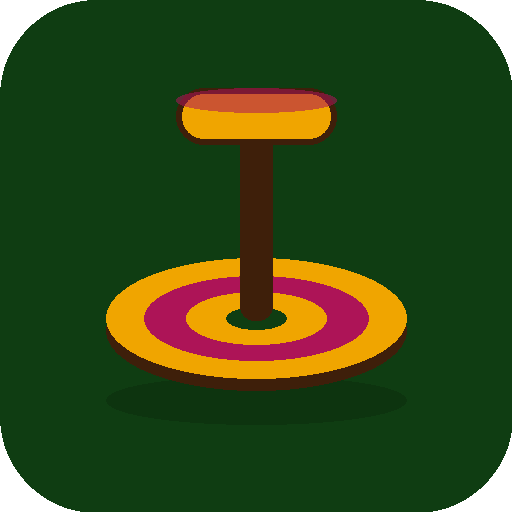
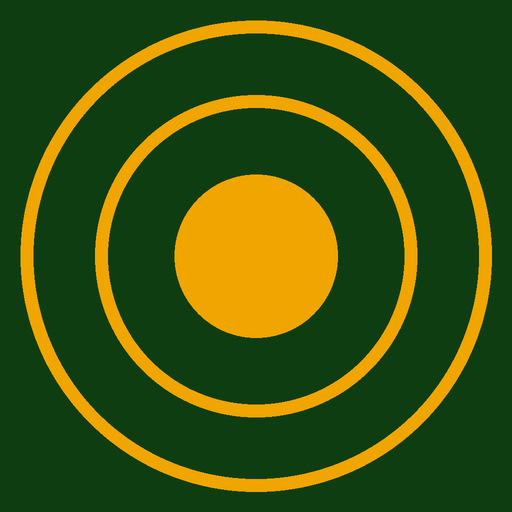
Updates

diff --git a/sw.js b/sw.js
@@ -1,1 +1,1 @@
-if(!self.define){let e,i={};const n=(n,s)=>(n=new URL(n+".js",s).href,i[n]||new Promise(i=>{if("document"in self){const e=document.createElement("script");e.src=n,e.onload=i,document.head.appendChild(e)}else e=n,importScripts(n),i()}).then(()=>{let e=i[n];if(!e)throw new Error(`Module ${n} didn’t register its module`);return e}));self.define=(s,r)=>{const o=e||("document"in self?document.currentScript.src:"")||location.href;if(i[o])return;let c={};const f=e=>n(e,o),a={module:{uri:o},exports:c,require:f};i[o]=Promise.all(s.map(e=>a[e]||f(e))).then(e=>(r(...e),c))}}define(["./workbox-9c191d2f"],function(e){"use strict";self.skipWaiting(),e.clientsClaim(),e.precacheAndRoute([{url:"registerSW.js",revision:"3657615490fc0a4a7073586387c618ee"},{url:"index.html",revision:"97db6b7f15e390e5527ab2408165587e"},{url:"icons.svg",revision:"3b4fcfcf393eca4d264dca4a4663bc37"},{url:"icon-512.png",revision:"76f4a3d1b8ebb256f45e6c67a028eea4"},{url:"icon-192.png",revision:"f1d6a904c0565c9f0f9f51aa3b897445"},{url:"favicon.svg",revision:"7e840862161341271697daa99a40d76b"},{url:"assets/index-DnA7C1Ln.css",revision:null},{url:"assets/index-DaS4q74H.js",revision:null},{url:"favicon.svg",revision:"7e840862161341271697daa99a40d76b"},{url:"icon-192.png",revision:"f1d6a904c0565c9f0f9f51aa3b897445"},{url:"icon-512.png",revision:"76f4a3d1b8ebb256f45e6c67a028eea4"},{url:"manifest.webmanifest",revision:"110579c8e8c239f6bcf6576d3eaf1492"}],{}),e.cleanupOutdatedCaches(),e.registerRoute(new e.NavigationRoute(e.createHandlerBoundToURL("index.html")))});
+if(!self.define){let e,i={};const n=(n,s)=>(n=new URL(n+".js",s).href,i[n]||new Promise(i=>{if("document"in self){const e=document.createElement("script");e.src=n,e.onload=i,document.head.appendChild(e)}else e=n,importScripts(n),i()}).then(()=>{let e=i[n];if(!e)throw new Error(`Module ${n} didn’t register its module`);return e}));self.define=(s,r)=>{const c=e||("document"in self?document.currentScript.src:"")||location.href;if(i[c])return;let o={};const a=e=>n(e,c),f={module:{uri:c},exports:o,require:a};i[c]=Promise.all(s.map(e=>f[e]||a(e))).then(e=>(r(...e),o))}}define(["./workbox-9c191d2f"],function(e){"use strict";self.skipWaiting(),e.clientsClaim(),e.precacheAndRoute([{url:"registerSW.js",revision:"3657615490fc0a4a7073586387c618ee"},{url:"index.html",revision:"bc5aebcb61fab46f311ec407541a50cf"},{url:"icons.svg",revision:"3b4fcfcf393eca4d264dca4a4663bc37"},{url:"icon-512.png",revision:"e34365971dc68a51e356aac6869ac905"},{url:"icon-192.png",revision:"083f8e6dbf5f2b16249fac841aa5583e"},{url:"favicon.svg",revision:"7e840862161341271697daa99a40d76b"},{url:"apple-touch-icon.png",revision:"ebdb3aa74da18cf33421756f9b18bb16"},{url:"assets/index-DnA7C1Ln.css",revision:null},{url:"assets/index-DaS4q74H.js",revision:null},{url:"favicon.svg",revision:"7e840862161341271697daa99a40d76b"},{url:"icon-192.png",revision:"083f8e6dbf5f2b16249fac841aa5583e"},{url:"icon-512.png",revision:"e34365971dc68a51e356aac6869ac905"},{url:"manifest.webmanifest",revision:"110579c8e8c239f6bcf6576d3eaf1492"}],{}),e.cleanupOutdatedCaches(),e.registerRoute(new e.NavigationRoute(e.createHandlerBoundToURL("index.html")))});

diff --git a/index.html b/index.html
@@ -4,7 +4,14 @@
     <meta charset="UTF-8" />
     <meta name="google" content="notranslate">
     <link rel="icon" type="image/svg+xml" href="/stockheil/favicon.svg" />
-    <meta name="viewport" content="width=device-width, initial-scale=1.0" />
+    <meta name="viewport" content="width=device-width, initial-scale=1.0, viewport-fit=cover" />
+
+    <!-- iOS Home-Bildschirm / Standalone-Modus -->
+    <meta name="apple-mobile-web-app-capable" content="yes">
+    <meta name="apple-mobile-web-app-status-bar-style" content="black-translucent">
+    <meta name="apple-mobile-web-app-title" content="Stockheil">
+    <link rel="apple-touch-icon" href="/stockheil/apple-touch-icon.png">
+
     <title>stockheil</title>
     <script type="module" crossorigin src="/stockheil/assets/index-DaS4q74H.js"></script>
     <link rel="stylesheet" crossorigin href="/stockheil/assets/index-DnA7C1Ln.css">
